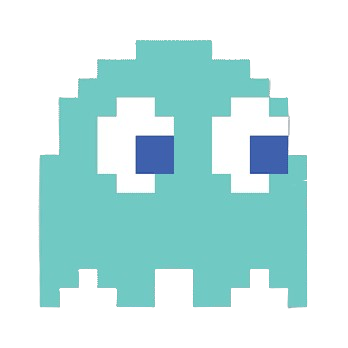
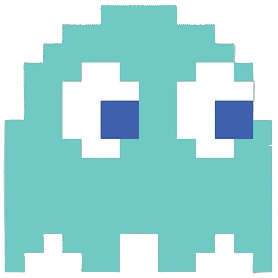
Change image ghost and give diffente image for ghost

diff --git a/src/screens/game.py b/src/screens/game.py
@@ -48,12 +48,12 @@ class Games(Screen):
                     "blue": renderer.load_image
                     ("src/img/enemy_bleu-remove.png"),
                     "red": renderer.load_image("src/img/enemy_rouge.png"),
-                    "yellow": renderer.load_image("src/img/enemy_jaune.png"),
+                    "orange": renderer.load_image("src/img/enemy_orange.png"),
+                    "purple": renderer.load_image("src/img/enemy_purple.png"),
                 }
 
             self.player_image = renderer.load_image("src/img/pac.png")
-            self.pacgum_image = renderer.load_image("src/img"
-                                                    "/pacgum.png")
+            self.pacgum_image = renderer.load_image("src/img/pacgum.png")
             self.super_pacgum_image = renderer.load_image("src/img/"
                                                           "super_pacgum.png")
         except FileNotFoundError:
@@ -174,10 +174,11 @@ class Games(Screen):
             if not cell.can_move(Direction.RIGHT):
                 renderer.draw_line((right, py), (right, bottom), wall_color)
 
-    def _draw_ghost(self, ghost: Any, renderer: Any,
+    def _draw_ghost(self, ghost: Any, index: int, renderer: Any,
                     cell_size: int, offset_x: int, offset_y: int) -> None:
         """Draw a ghost centered on its current maze cell."""
-        image = self.ghost_images.get("blue")
+        colors: list[str] = list(self.ghost_images.keys())
+        image = self.ghost_images[colors[index % len(colors)]]
         if image is None:
             return
 
@@ -227,8 +228,8 @@ class Games(Screen):
         for pacgum in GameState.level.pacgums:
             self._draw_pacgum(pacgum, renderer, cell_size, offset_x, offset_y)
 
-        for ghost in GameState.level.ghosts:
-            self._draw_ghost(ghost, renderer, cell_size, offset_x, offset_y)
+        for index, ghost in enumerate(GameState.level.ghosts):
+            self._draw_ghost(ghost, index, renderer, cell_size, offset_x, offset_y)
 
         self._draw_player(GameState.level.player, renderer, cell_size,
                           offset_x, offset_y)
